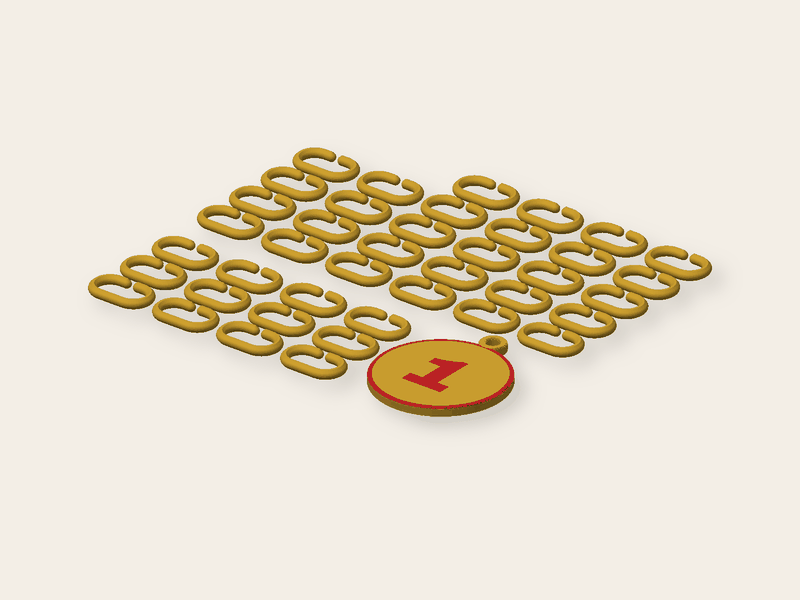
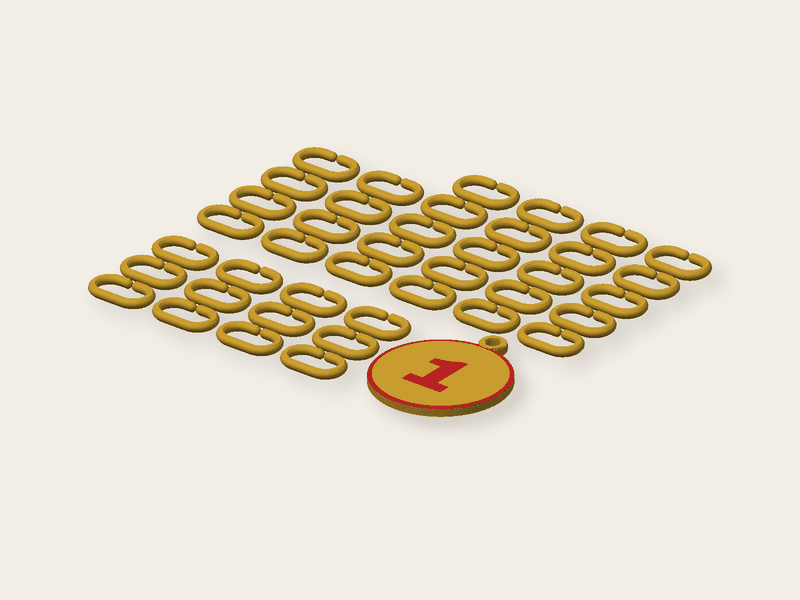
Medal round 5: link flat on top as below, tips 0.4 mm apart, ironed top (TODO #34)
- The link's profile is the same over its axis as under it: a flat on top as
  wide as the one on the bed, 45° slopes to the round (the top layers of a full
  round were thin strips that did not hold, Roman's print of 22 Oct). 4.0 mm
  tall (10 + 10 layers, flats 1.66 mm): lower than the plate, so ironing the
  topmost layer irons the plate alone (+12 min; with 4.4 mm links +23 min).
- Round ends 0.4 mm apart: the link opens 3.6 mm to let a bar through, about
  29 N and 1.8 % strain.
- Medal flag "ironing" (on by default): the design carries
  tool_params.process = {ironing_type: topmost} for the farm and the
  calculation; the form cannot write process itself.
- Examples redrawn; docs/P.md §8d with the slices (1 h 44 min, ironed 1 h 56 min,
  no supports when allowed).

diff --git a/engines/python/shape_kinds.py b/engines/python/shape_kinds.py
@@ -214,11 +214,12 @@ def _caption(M, p, layers, info, text, body_kind, fit_d, warn):
 
 
 # a chain link: long, wide, the bar, and how far apart the round tips of its gap are. The neighbour's bar (4 mm) goes
-# through 1.6 mm only when the link opens 2.4 mm in its plane: about 19 N by hand and 1.2 % strain at the far side, well
-# under what PLA takes (docs/P.md §8c). With 3.6 mm between flat ends (round 3) the chain came apart by itself.
-LINK = (30.0, 18.0, 4.0, 1.6)
+# through 0.4 mm only when the link opens 3.6 mm in its plane: about 28 N by hand and 1.8 % strain at the far side, under
+# what PLA takes (docs/P.md §8d). With 3.6 mm between flat ends (round 3) the chain came apart by itself, with 1.6 mm
+# between round ends (round 4) still too easily.
+LINK = (30.0, 18.0, 4.0, 0.4)
 CHAIN_BED = 220.0                # the medal and its chain are one plate of the smallest bed of the farm's printers
-LINK_FLAT = 1.0                  # the flat strip a link stands on, too narrow to see once printed
+LINK_HEIGHT = 4.0                # 20 layers of 0.2, 10 under the bar's axis and 10 over it; the flats come out 1.66 mm
 LINK_OVERHANG = 45.0             # the steepest the underside of a link leans out, from the vertical: prints without supports
 LINK_SLICES = 16                 # points up each side of the round bar's profile
 MEDAL_ROUND = 1.0                # a medal's outline is rounded by this much at its top and its bottom
@@ -227,23 +228,26 @@ MEDAL_STEPS = 10                 # slabs of each rounded edge: a tenth of a mill
 
 def _link_profile(bar):
     """
-    The bar of a link seen across: a circle of `bar` whose underside is cut by two straight slopes LINK_OVERHANG from
-    the vertical, down to a flat LINK_FLAT wide on the bed (a round bar would start in mid-air). Returns (height,
-    the half-width at a height, the height of the circle's centre).
+    The bar of a link seen across, the same above its axis as under it: a circle of `bar` whose underside runs in two
+    straight slopes LINK_OVERHANG from the vertical down to a flat on the bed (a round bar would start in mid-air), and
+    whose top runs up the same way to a flat as wide (a full round ends in thin strips of the last layers that do not
+    hold, Roman's print of 22 Oct 2026). LINK_HEIGHT tall. Returns (height, the half-width at a height, the height of
+    the circle's centre, how high the slopes reach from the bed and down from the top).
     """
     r, a = bar / 2, math.radians(LINK_OVERHANG)
-    tx, tz = r * math.cos(a), -r * math.sin(a)               # where the slope leaves the circle, from its centre
-    drop = (tx - LINK_FLAT / 2) / math.tan(a)                # how far the slope runs down to the flat
-    centre = -tz + drop
-    height = centre + r
+    height = LINK_HEIGHT
+    centre = height / 2
+    drop = centre - r * math.sin(a)                          # where the slope leaves the circle, from the bed
+    flat = r * math.cos(a) - drop * math.tan(a)              # half the flat
 
     def half(z):
+        z = min(z, height - z)                               # the top mirrors the bottom
         if z <= drop:
-            return LINK_FLAT / 2 + z * math.tan(a)
+            return flat + z * math.tan(a)
         dz = z - centre
         return math.sqrt(max(r * r - dz * dz, 0.0))
 
-    return height, half, centre
+    return height, half, centre, drop
 
 
 def _link(M):
@@ -257,9 +261,9 @@ def _link(M):
     C = M.CrossSection
     long, wide, bar, tips = LINK
     gap = tips + bar                                         # the cut; each round end reaches half a bar back into it
-    height, half, _ = _link_profile(bar)
+    height, half, _, drop = _link_profile(bar)
     mid = wide / 2 - bar / 2                                 # the radius of the line the bar runs along, at the round ends
-    zs = [height * i / LINK_SLICES for i in range(LINK_SLICES + 1)]
+    zs = [0.0] + [drop + (height - 2 * drop) * i / LINK_SLICES for i in range(LINK_SLICES + 1)] + [height]
     right = [(half(z), z) for z in zs]
     profile = [(x, z) for x, z in right] + [(-x, z) for x, z in reversed(right)]
     # the round ends: the profile turned half a circle round the end's centre
@@ -772,9 +776,9 @@ def build(M, Invalid, p, product):
         if chain is not None:
             links = chain[0].translate([bx0, by0, 0])
             body, whole = body + links, whole + links
-            h, _, c = _link_profile(LINK[2])
+            h, half, _, _ = _link_profile(LINK[2])
             notes["chain"] = {"links": chain[3], "length": round(chain[3] * (LINK[0] - 2 * LINK[2]) / 10.0) * 10,
-                              "profile": {"height": round(h, 2), "flat": LINK_FLAT, "overhang": LINK_OVERHANG}, "tips": LINK[3]}
+                              "profile": {"height": round(h, 2), "flat": round(2 * half(0.0), 2), "overhang": LINK_OVERHANG}, "tips": LINK[3]}
             if chain[3] < asked:
                 notes["chain"]["asked"] = asked
                 warn.append("links_cut")

diff --git a/app/Domain/Tools/ParametricGenerator.php b/app/Domain/Tools/ParametricGenerator.php
@@ -387,7 +387,7 @@ final class ParametricGenerator
     public const MAX_STROKE_POINTS = 48;
 
     public const FLAGS = ['name_cup' => ['base'], 'beads' => ['two_sides'], 'charm' => ['remove_bg', 'eyelet', 'flush', 'rim', 'bevel'], 'keychain' => ['remove_bg', 'eyelet', 'flush', 'rim', 'bevel'], 'earrings' => ['remove_bg', 'eyelet', 'mirror', 'flush', 'rim', 'bevel'], 'ornament' => ['remove_bg', 'eyelet', 'flush', 'rim', 'bevel'],
-        'magnet' => ['remove_bg', 'flush', 'rim', 'bevel'], 'coaster' => ['remove_bg', 'grooves', 'flush', 'rim', 'bevel'], 'gingerbread' => ['eyelet', 'flush', 'bevel'], 'name_letter' => ['hang', 'stand', 'flush', 'bevel'], 'cookie' => ['remove_bg', 'hang', 'tray', 'flush'], 'topper' => ['flush'], 'tray' => ['remove_bg'], 'badge' => ['remove_bg', 'flush', 'rim', 'bevel'], 'medallion' => ['remove_bg', 'border'], 'photo_organizer' => ['remove_bg'], 'bag_charm' => ['remove_bg', 'flush', 'rim', 'bevel'], 'straw' => ['remove_bg', 'flush', 'rim'], 'opener' => ['remove_bg', 'flush', 'rim'],
+        'magnet' => ['remove_bg', 'flush', 'rim', 'bevel'], 'coaster' => ['remove_bg', 'grooves', 'flush', 'rim', 'bevel'], 'gingerbread' => ['eyelet', 'flush', 'bevel'], 'name_letter' => ['hang', 'stand', 'flush', 'bevel'], 'cookie' => ['remove_bg', 'hang', 'tray', 'flush'], 'topper' => ['flush'], 'tray' => ['remove_bg'], 'badge' => ['remove_bg', 'flush', 'rim', 'bevel'], 'medallion' => ['remove_bg', 'border', 'ironing'], 'photo_organizer' => ['remove_bg'], 'bag_charm' => ['remove_bg', 'flush', 'rim', 'bevel'], 'straw' => ['remove_bg', 'flush', 'rim'], 'opener' => ['remove_bg', 'flush', 'rim'],
         'box' => ['lid', 'cable_slot'], 'phone_stand' => ['cable', 'screws'], 'cable_holder' => ['screws'], 'modular' => ['tray'], 'vase' => ['drainage', 'saucer'], 'sign' => ['keyring', 'border', 'bevel', 'two_color'], 'logo' => ['invert', 'bevel'], 'stamp' => ['invert'], 'stencil' => ['invert'], 'papel' => ['isolate', 'invert', 'scallop', 'string_holes'], 'notes' => ['pen', 'invert'], 'hair_tie' => ['invert'], 'candle_stand' => ['invert'], 'insert' => ['notch'], 'lightbox' => ['invert'], 'qr' => ['stand', 'hole', 'hidden'], 'cutter' => ['stamp', 'invert'], 'holder' => ['mount'], 'cap' => ['grip']];
 
     /** kind → field, flag or choice → [choice key, values it belongs to]; the form hides it for the other choices. The key may also be a flag, its values are then on | off. */
@@ -447,7 +447,7 @@ final class ParametricGenerator
     ];
 
     /** flags that start switched on */
-    public const FLAGS_ON = ['cable', 'window', 'drainage', 'saucer', 'border', 'stamp', 'mount', 'grip', 'remove_bg', 'eyelet', 'base', 'two_sides', 'scallop', 'string_holes', 'pen', 'notch', 'isolate'];
+    public const FLAGS_ON = ['cable', 'window', 'drainage', 'saucer', 'border', 'stamp', 'mount', 'grip', 'remove_bg', 'eyelet', 'base', 'two_sides', 'scallop', 'string_holes', 'pen', 'notch', 'isolate', 'ironing'];
 
     /** things that hang only when asked to (a biscuit, a big letter): the eyelet's sizes show with the tick */
     private const HANG_WHEN = ['eye_pos' => ['hang', ['on']], 'eye_hole' => ['hang', ['on']], 'eye_wall' => ['hang', ['on']]];
@@ -1127,6 +1127,12 @@ final class ParametricGenerator
             } else {
                 unset($clean['one_plate_required']);
             }
+        }
+        // settings of the slicing process the design asks for, which the farm and the calculation lay over their profile
+        // (Orca's own names; flow, speed and spacing of the ironing stay the farm's): the medal's top ironed, smooth
+        unset($clean['process']);
+        if (! empty($clean['ironing'])) {
+            $clean['process'] = ['ironing_type' => 'topmost'];
         }
         if ($kind === 'papel' && ($clean['treatment'] ?? '') === 'portrait') {
             // the backing and the dark layer on it: the filaments the tool chose stay with the design, and so does the one

diff --git a/tests/Feature/ShapeToolsTest.php b/tests/Feature/ShapeToolsTest.php
@@ -584,7 +584,7 @@ class ShapeToolsTest extends TestCase
         $one = ['line1' => '1', 'typeface' => 'archivo'];
         // what the tool starts with: flush, the number at 55 % of 60 mm, a rim, forty links, one plate of a 220 mm bed
         $first = $this->meta($this->preview('medallion', $one, 'all', true)->assertOk());
-        $this->assertSame(['links' => 40, 'length' => 880, 'profile' => ['height' => 4.33, 'flat' => 1, 'overhang' => 45], 'tips' => 1.6], $first['notes']['chain']);
+        $this->assertSame(['links' => 40, 'length' => 880, 'profile' => ['height' => 4, 'flat' => 1.66, 'overhang' => 45], 'tips' => 0.4], $first['notes']['chain']);
         $this->assertLessThanOrEqual(220, max($first['bbox']['x'], $first['bbox']['y']));
         $this->assertSame([], $first['notes']['warnings']);
 
@@ -641,9 +641,10 @@ class ShapeToolsTest extends TestCase
         // the eyelet on top, on the axis
         $this->assertEqualsWithDelta($bare['bbox']['x'] / 2, $bare['notes']['eyelet']['x'], 0.1);
 
-        // the links: round bars on a flat of 1 mm, round ends 1.6 mm apart, 846 mm³ each
+        // the links: round bars with a flat of 1.66 mm under and over the axis (10 layers each side), lower than the plate
+        // (its top alone is ironed), round ends 0.4 mm apart, 853 mm³ each
         $chainless = $this->meta($this->preview('medallion', $one + ['links' => 0])->assertOk());
-        $this->assertEqualsWithDelta(40 * 845.9, $first['volume_mm3'] - $chainless['volume_mm3'], 40 * 2);
+        $this->assertEqualsWithDelta(40 * 852.5, $first['volume_mm3'] - $chainless['volume_mm3'], 40 * 2);
 
         // seven shapes, each one closed solid on the bed with the eyelet on its axis
         foreach (['circle', 'star', 'hex', 'shield', 'octagon', 'rosette', 'heart'] as $body) {
@@ -675,7 +676,8 @@ class ShapeToolsTest extends TestCase
         $this->assertLessThanOrEqual(220, max($wide['bbox']['x'], $wide['bbox']['y']));
         $this->preview('medallion', $one + ['links' => 81])->assertStatus(422);
         $this->preview('medallion', $one + ['motif' => 'sideways'])->assertStatus(422);
-        $this->get('/tools/medallion')->assertOk()->assertSee('data-param="motif_size"', false)->assertSee('data-preset="place1"', false);
+        $this->get('/tools/medallion')->assertOk()->assertSee('data-param="motif_size"', false)->assertSee('data-preset="place1"', false)
+            ->assertSee('data-flag="ironing"', false)->assertSee('Žehlení horní plochy')->assertSee('několik minut');
     }
 
     public function test_a_raised_medal_changes_colour_once_and_keeps_its_chain_under_the_change(): void
@@ -703,7 +705,7 @@ class ShapeToolsTest extends TestCase
         $this->assertEqualsWithDelta(3.6, $thin['bbox']['z'], 0.01);
         $this->assertArrayNotHasKey('thickened', $thin['notes']);
         $thick = $this->meta($this->preview('medallion', $one + ['thickness' => 3])->assertOk());
-        $this->assertSame(4.4, $thick['notes']['thickened']);
+        $this->assertEquals(4.0, $thick['notes']['thickened']);
     }
 
     public function test_an_organizer_is_a_tall_dish_with_compartments_or_round_holes(): void

diff --git a/tests/Feature/ToolsFlowTest.php b/tests/Feature/ToolsFlowTest.php
@@ -488,6 +488,13 @@ class ToolsFlowTest extends TestCase
         $this->assertTrue($flush->tool_params['multi_material']);
         $this->assertTrue($flush->tool_params['one_plate_required']);
         $this->assertSame([], (array) $flush->tool_params['color_changes']);
+        // its top ironed unless the visitor says no: the farm and the calculation lay this over their process profile
+        $this->assertSame(['ironing_type' => 'topmost'], $flush->tool_params['process']);
+        $plain = ModelFile::where('uuid', $this->actingAs($user)->postJson('/api/tools/param', ['kind' => 'medallion', 'params' => ['line1' => '1', 'ironing' => false]])->assertCreated()->json('file.uuid'))->firstOrFail();
+        $this->assertArrayNotHasKey('process', $plain->tool_params);
+        // nobody writes the slicer's settings through the form
+        $sly = ModelFile::where('uuid', $this->actingAs($user)->postJson('/api/tools/param', ['kind' => 'medallion', 'params' => ['line1' => '1', 'ironing' => false, 'process' => ['ironing_type' => 'top', 'wall_loops' => 9]]])->assertCreated()->json('file.uuid'))->firstOrFail();
+        $this->assertArrayNotHasKey('process', $sly->tool_params);
 
         // a raised one: a gold one on a black plate, forty links; one change of filament where the number starts
         $made = $this->actingAs($user)->postJson('/api/tools/param', ['kind' => 'medallion', 'params' => ['line1' => '1', 'motif' => 'raised', 'part_colors' => ['color_1' => '#d4a531', 'body' => '#1b1b1d']]])->assertCreated();
@@ -496,6 +503,7 @@ class ToolsFlowTest extends TestCase
         $this->assertFalse((bool) ($file->tool_params['multi_material'] ?? false));
         $this->assertArrayNotHasKey('one_plate_required', $file->tool_params);
         $this->assertSame([4.4], array_column((array) $file->tool_params['color_changes'], 'z'));
+        $this->assertSame(['ironing_type' => 'topmost'], $file->tool_params['process']);
 
         // the farm prints one plate, never a part on its own: the plate from the black spool, the change to the gold one
         $order = $this->startOrder($user, 'file='.$file->uuid);

diff --git a/docs/P.md b/docs/P.md
@@ -840,3 +840,68 @@ tak se řez dělat nedá. Farma podpěry nezapíná.
 
 **Co ověří až tisk**: jestli jde článek s přesahem 2,4 mm zacvaknout rukou bez prasknutí. Jestli ne, stačí změnit
 `LINK[3]` (třeba na 2,0). Dál jestli spodní zaoblení 45° nechá na líci čistý kraj lemu.
+
+### 8d. Kolo 5: plochý vršek článku, mezera 0,4 mm, žehlení vršku placky (22. 10. 2026)
+
+Zadání: doplněk z 22. 10. v `docs/prompts/medaile-kolo4.md` (TODO #34), po Romanově výtisku článku kola 4. Na fotu
+jsou švy na vršku: horní vrstvy kruhového profilu jsou tenké proužky, které se špatně přilepují.
+
+- **Profil článku je souměrný podle osy** (`_link_profile`):
+  - dole i nahoře ploška stejně široká, k ní sklon 45° k místu, kde ho kruh ⌀ 4 tečně přebírá;
+  - pod osou i nad ní stejný počet vrstev;
+  - kulaté konce mezery jsou tentýž profil otočený kolem osy konce, takže mají vršek na výšce plošky.
+- **Výška článku 4,0 mm** (`LINK_HEIGHT`): 20 vrstev po 0,2, 10 pod osou a 10 nad ní, plošky 1,66 mm. Proč ne 4,4 mm
+  (22 vrstev, plošky 1,26 mm, blíž zadaným „~1 mm“):
+  - Žehlení `topmost` žehlí nejvyšší vrstvu každého objektu.
+  - Při výšce 4,4 mm jsou vršky 40 článků ve stejné vrstvě jako vršek placky a žehlí se taky: 39,5 m drah navíc,
+    **+23 min**.
+  - Při výšce 4,0 mm se žehlí jen placka: 18,6 m drah, **+12 min**.
+  - Vystouplá medaile se teď s články zesiluje na 4,0 mm místo 4,4 mm (`notes.thickened`).
+  - Kdyby Roman chtěl užší plošky, je to jediné číslo `LINK_HEIGHT = 4.4`, za cenu žehlení článků.
+- **Mezera 0,4 mm** (`LINK = (30, 18, 4, 0.4)`), o 1,2 mm méně než v kole 4:
+  - Přesah: příčka ⌀ 4 projde, když se článek ve své rovině rozevře o 4 − 0,4 = **3,6 mm**.
+  - Stejný model jako v §8c: ∫y²ds = 5 585 mm³ a I profilu ve směru rozevření 12,8 mm⁴ (spočteno z profilu).
+  - Síla F = 3,6 · 3 500 · 12,8 / 5 585 ≈ **29 N** (asi 3 kg v prstech; kolo 4: 19 N).
+  - Prodloužení na protější straně ε = 14 · 2 · 3,6 / 5 585 ≈ **1,8 %** (kolo 4: 1,2 %).
+  - PLA pruží asi do 2–3 %, rezerva je menší než v kole 4. Kdyby článek při zacvaknutí praskal na protější straně,
+    vrátit `LINK[3]` na 0,8 (1,6 %, 26 N).
+  - Mezi špičkami při slicování zůstává 0,4 mm, tedy šířka jedné dráhy. Obrysy obou konců jsou od sebe 0,8 mm
+    (středy drah), takže se neslijí. Na první vrstvě je mezera mnohem větší (plošky konců mají ⌀ 1,66).
+  - Objem článku 852,5 mm³, 4 984 trojúhelníků.
+- **Žehlení horní plochy** (zaškrtávátko `ironing` u medaile, výchozí zapnuté, `FLAGS_ON`):
+  - Návrh nese `tool_params.process = {ironing_type: topmost}`, zapisuje ho `ParametricGenerator::create`. Farma
+    a kalkulace ho převezmou do přepisů procesu (session 2, `feature/design-process-hints`).
+  - Průtok, rychlost a rozteč žehlení zůstávají z profilu farmy (10 %, 30 mm/s, 0,15 mm).
+  - Z formuláře `process` projít nejde: `clean()` zná jen svoje klíče (test).
+  - Vypnuté zaškrtávátko: v návrhu žádný `process`.
+  - Nápověda v cs/en/es (`lang/src/medallion5.json`) říká „asi 12 minut u medaile 60 mm“, ne jen „několik minut“.
+  - Platí pro obě varianty motivu. U vystouplé medaile je nejvyšší plochou vršek čísla a lemu.
+- **Ukázky** jsou překreslené (nižší článek s ploškou nahoře).
+- **Testy**:
+  - `ShapeToolsTest`: profil (4,0 / 1,66 / 45°), `tips` 0,4, objem článků, zesílení vystouplé na 4,0, zaškrtávátko
+    na stránce;
+  - `ToolsFlowTest`: `process` u zarovnané i vystouplé medaile, bez `process` při vypnutém, `process` z formuláře
+    neprojde.
+
+**Řez** (AnycubicSlicerNext 2.0.0.3 CLI, profily farmy). Model: výchozí medaile 60 mm, „1“, lem, 40 článků, jedna
+podložka, dva filamenty.
+
+| varianta | filament | výměny | čas |
+|---|---|---|---|
+| kolo 5, bez žehlení | 41,01 g + 1,37 g | 4 | 1 h 44 min |
+| kolo 5, `ironing_type = topmost` | 41,08 g + 1,38 g | 4 | **1 h 56 min** |
+| zkouška: článek 4,4 mm, se žehlením | 42,92 g + 1,38 g | 4 | 2 h 13 min |
+| celá medaile jednou barvou, podpěry **povolené** | 40,31 g | – | 1 h 29 min |
+
+S povolenými podpěrami nevznikla žádná podpěra ani převislá stěna (`;TYPE:Support` ani `;TYPE:Overhang wall`).
+
+Kde se žehlí (součet drah `;TYPE:Ironing` podle výšky, kolo 5):
+- **4,4 mm, vršek placky**: 18,6 m, asi 10 min.
+- **0,6 mm, vršek dílu čísla a lemu**: 3,7 m, asi 2 min. Je to samostatný objekt, takže `topmost` žehlí i jeho
+  vršek, i když ho pak zakryje placka. Ušetřit to jde jen žehlením po objektech (nastavení objektu v 3MF), a to je
+  práce farmy (session 2).
+
+**Co ověří až tisk**:
+- jestli vršek článku s ploškou drží,
+- jestli jde článek s přesahem 3,6 mm zacvaknout rukou bez prasknutí,
+- jak vypadá žehlený rub medaile.
